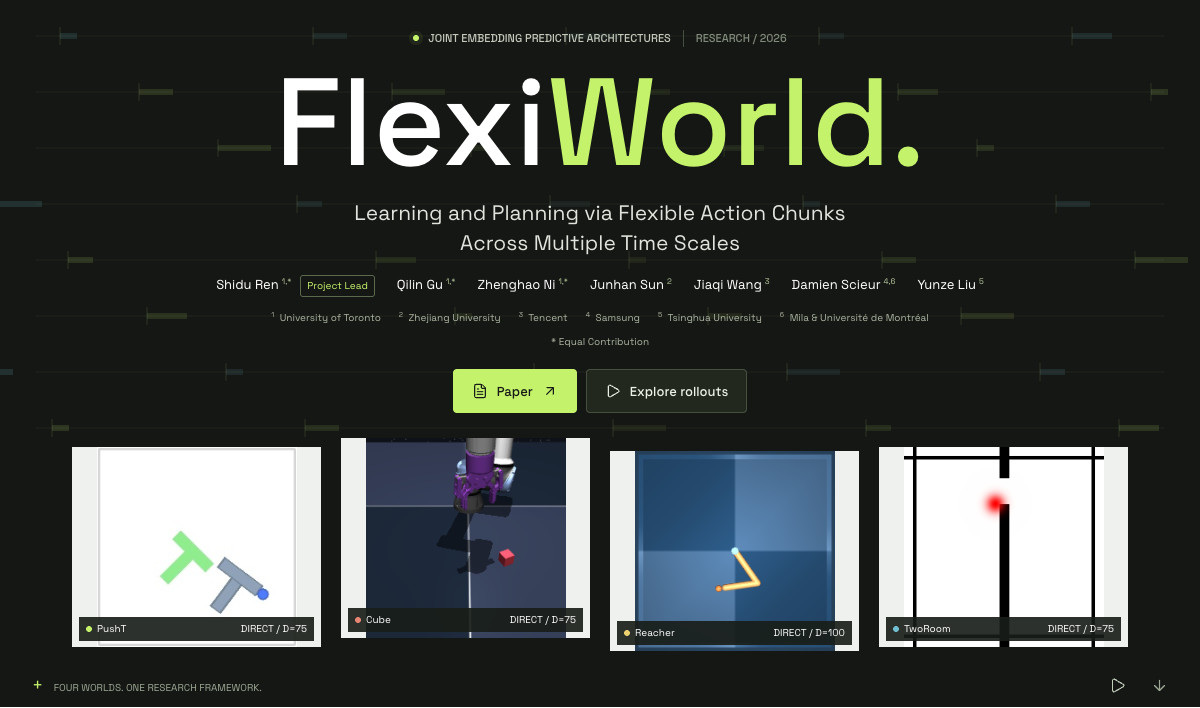
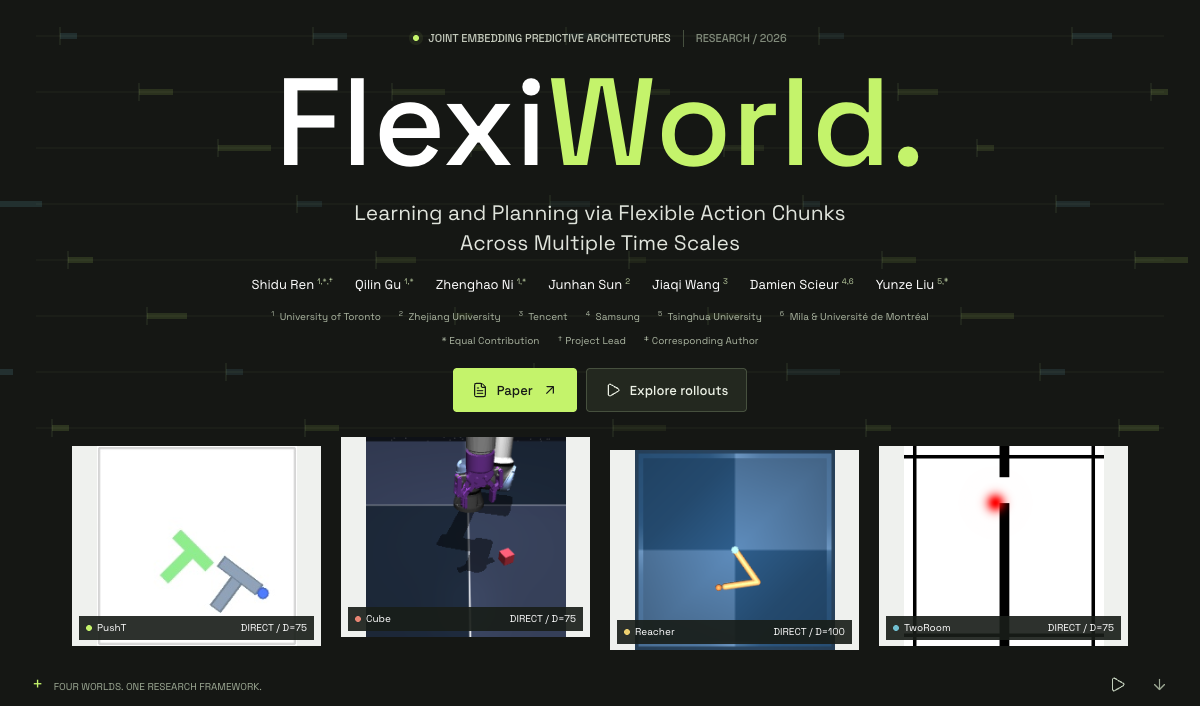
Group author role notes and mark corresponding author

diff --git a/index.html b/index.html
@@ -82,9 +82,8 @@
                 href="https://openreview.net/profile?id=~Shidu_Ren1"
                 target="_blank"
                 rel="noopener"
-                >Shidu Ren<sup>1,*</sup></a
-              >
-              <span class="lead-label">Project Lead</span></span
+                >Shidu Ren<sup>1,*,&dagger;</sup></a
+              ></span
             >
             <span class="person"
               ><a
@@ -131,7 +130,7 @@
                 href="https://openreview.net/profile?id=~Yunze_Liu2"
                 target="_blank"
                 rel="noopener"
-                >Yunze Liu<sup>5</sup></a
+                >Yunze Liu<sup>5,&Dagger;</sup></a
               ></span
             >
           </div>
@@ -142,7 +141,11 @@
             ><span><sup>5</sup> Tsinghua University</span
             ><span><sup>6</sup> Mila &amp; Université de Montréal</span>
           </div>
-          <p class="equal-contribution">* Equal Contribution</p>
+          <p class="author-notes">
+            <span class="equal-contribution">* Equal Contribution</span>
+            <span class="project-lead">&dagger; Project Lead</span>
+            <span class="corresponding-author">&Dagger; Corresponding Author</span>
+          </p>
           <div class="hero-links">
             <a
               class="button button-lime"

diff --git a/style.css b/style.css
@@ -316,14 +316,6 @@ nav a:hover:after {
   align-items: center;
   gap: 9px;
 }
-.lead-label {
-  font-size: 10px;
-  line-height: 1.4;
-  border: 1px solid #5b6a4f;
-  padding: 3px 6px;
-  color: var(--lime);
-  border-radius: 3px;
-}
 .hero-links {
   display: flex;
   justify-content: center;
@@ -2339,10 +2331,18 @@ dialog.goal-modal img {
   pointer-events: none;
   z-index: 0;
 }
-.equal-contribution {
+.author-notes {
+  display: flex;
+  flex-wrap: wrap;
+  justify-content: center;
+  gap: 4px 18px;
   font-size: 10px;
+  line-height: 1.6;
   color: #a9b39f;
   margin-top: 8px;
+}
+.author-notes span {
+  white-space: nowrap;
 }
 .hero {
   height: auto;
@@ -2488,9 +2488,6 @@ dialog.goal-modal img {
   .citation-heading > span {
     font-size: 10px;
   }
-  .people .lead-label {
-    font-size: 8px;
-  }
 }
 @media (max-width: 440px) {
   .hero {
@@ -2521,9 +2518,6 @@ dialog.goal-modal img {
   }
   .hero-field {
     bottom: 12px;
-  }
-  .lead-label {
-    padding: 2px 5px;
   }
   .hero-media-footer {
     margin-top: 8px;
